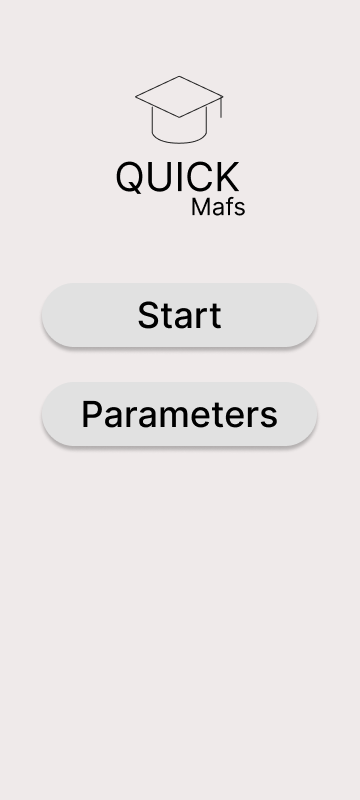
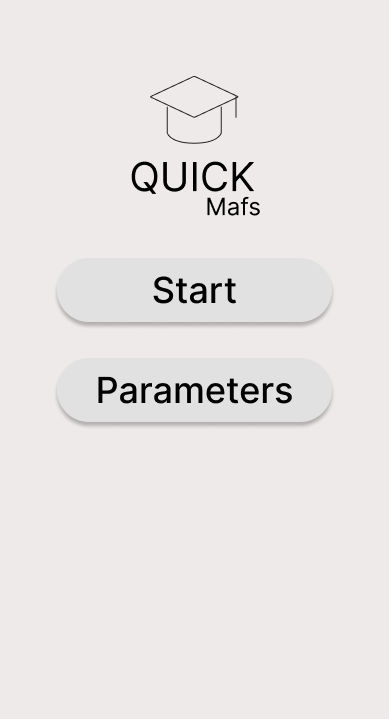
Fixing non centered layout

diff --git a/Alga_dev/app/src/main/java/com/example/alga_dev/MainActivity.kt b/Alga_dev/app/src/main/java/com/example/alga_dev/MainActivity.kt
@@ -3,7 +3,13 @@ package com.example.alga_dev
 import android.os.Bundle
 import androidx.activity.ComponentActivity
 import androidx.activity.compose.setContent
+import androidx.compose.foundation.background
+import androidx.compose.foundation.layout.Box
+import androidx.compose.foundation.layout.fillMaxSize
 import androidx.compose.runtime.Composable
+import androidx.compose.ui.Alignment
+import androidx.compose.ui.Modifier
+import androidx.compose.ui.graphics.Color
 import androidx.navigation.NavController
 import androidx.navigation.compose.NavHost
 import androidx.navigation.compose.composable
@@ -40,7 +46,19 @@ fun AtMainPage(navController: NavController) {
 
 @Composable
 fun AtSettingsPage(navController: NavController) {
-    SettingsPage(goToMainFromSettings = {navController.navigate("mainPage")})
+    Box(
+        modifier = Modifier
+            .fillMaxSize()
+            .background(Color.Blue),
+        contentAlignment = Alignment.Center
+    ) {
+        SettingsPage(
+            modifier = Modifier
+                .fillMaxSize()
+                .background(Color.Blue),
+            goToMainFromSettings = { navController.navigate("mainPage") }
+        )
+    }
 }
 
 
